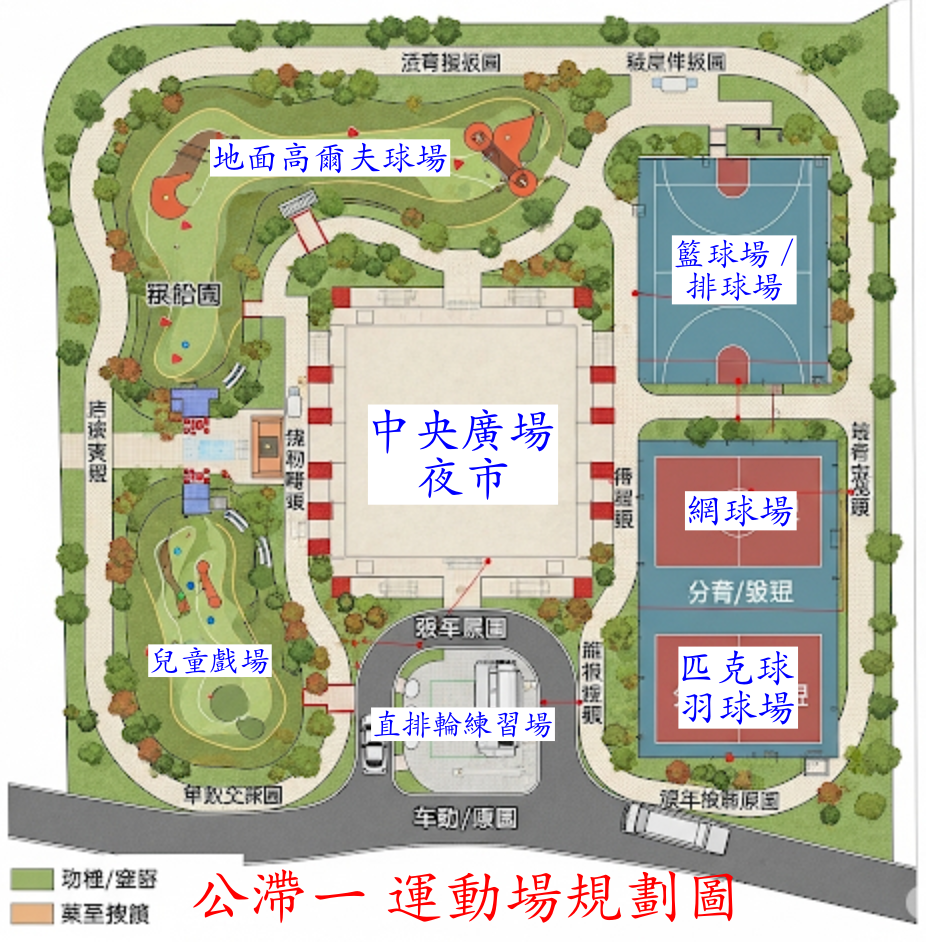
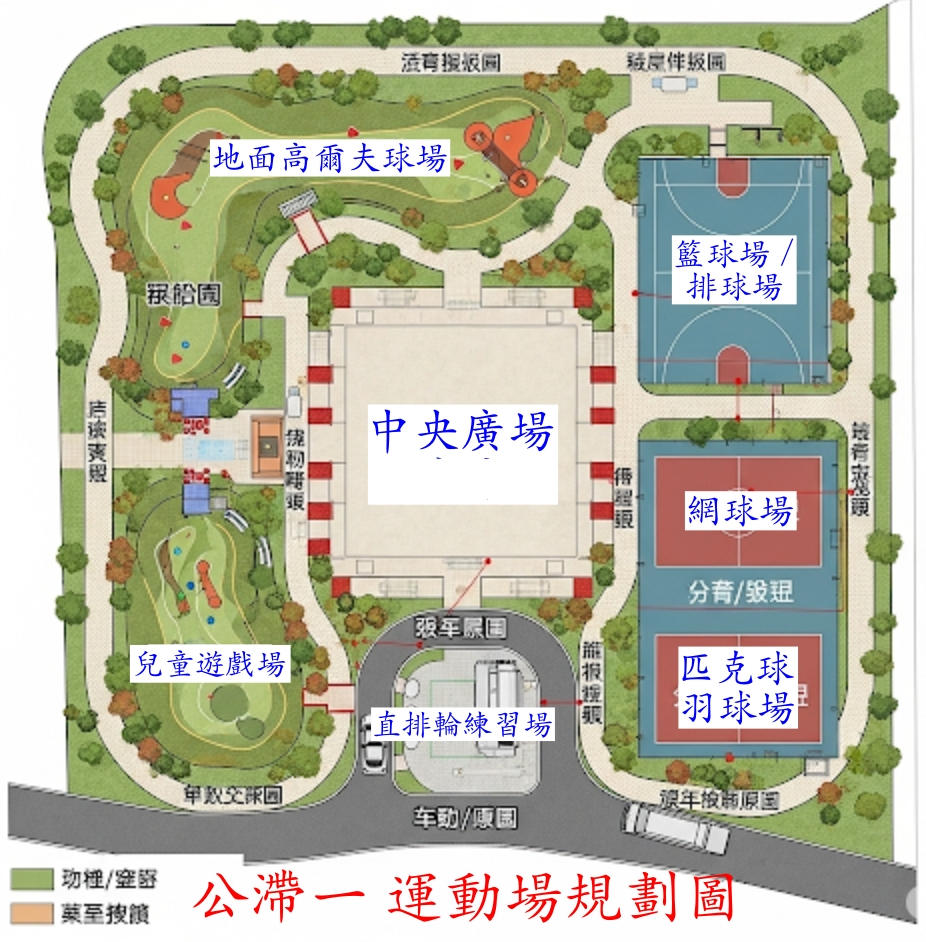
s3091

diff --git a/content/resident/r037.md b/content/resident/r037.md
@@ -38,6 +38,38 @@ toc: true
 
 ![r037-01.jpeg](/images/resident/r037-01.jpeg)
 
+英文告示內容:
+
+**桃園市公園管理自治條例**
+
+根據桃園市市政管理系統條例第十八條，以下行為是被禁止的：
+
+1.  未經授權在公園內的設施或植物上彩繪、張貼、懸掛橫幅或貼紙。
+2.  破壞公園設施、未經授權挖掘土壤、石頭或草皮、在非指定區域傾倒廢棄物或破壞植被等。
+3.  駕車或非法停車。
+4.  攜帶寵物或其他動物而未採取適當的保護措施並清理其排泄物。
+5.  騎自行車、溜冰、滑板、滑冰、打高爾夫球、放風箏，以及從事其他由主管機關宣布禁止或限制的娛樂活動。
+6.  亂扔垃圾、菸蒂、在指定垃圾桶外丟棄菸蒂。
+7.  游泳、沐浴、洗滌、捕魚、釣魚、打魚叉、放生、划船、污染水質、傷害植物生命或騷擾、虐待或傷害動物。經主管機關批准的捕魚或划船活動可免於此禁令。
+8.  晾曬衣物或其他物品。
+9.  採摘水果、蔬菜或其他植物，未經許可。
+10. 未經許可設置任何形式的棚架。
+11. 使用遊憩設施的方式不符合規定。
+12. 隨地大小便或有其他不當行為。
+13. 出售、出租娛樂設備；或從事其他營利活動，未經許可。
+14. 設置營火、烹飪、燃放鞭炮、或搭建遮蔽物或帳篷。
+15. 製造過度的噪音或製造擾亂公共安寧的噪音污染。
+16. 主管機關或管理機構宣布禁止或限制的與疾病預防和傳染病控制相關的事項或公園管理。
+17. 飲酒、打架或從事其他違反公共道德的行為。
+18. 賭博或其他有害公共道德的行為。
+19. 攜帶危險物品。
+20. 其他由主管機關宣布禁止或限制的事項。
+
+**桃園市龜山區公所**
+**電話: (03)3203711**
+
+![r037-12.jpeg](/images/resident/r037-12.jpeg)
+
 ### 文德公園的改善重點項目
 
 **公園禁煙, 禁酒, 並請帶走垃圾**
@@ -52,7 +84,7 @@ toc: true
 
 公園內常見自由奔跑的毛小孩， 將公園當作公廁。 無論草地或步道的遺留物都請主人帶回家！
 
-![r037-09.jpeg](/images/resident/r037-09.jpeg)
+![r037-13.jpeg](/images/resident/r037-13.jpeg)
 
 **私人物品不要放在公園**
 

diff --git a/content/resident/r036.md b/content/resident/r036.md
@@ -47,7 +47,7 @@ toc: true
 - 兒童遊戲場
 - 滑梯及攀岩場
 - 直排輪練習場 / 兒童腳踏車練習場
-- 上面球場都能當 太極拳及廣場舞 活動使用
+- 中央廣場作為 太極拳及廣場舞 等活動使用
 
 **設計構想說明：**
 
@@ -55,16 +55,16 @@ toc: true
 
 - **動線規劃：**
   - **環園步道 (散步/慢跑道):** 一條環繞整個公園的步道，讓散步和慢跑的民眾有獨立且完整的路線，不會與球場活動或車道衝突。
-  - **中央車道：** 一條貫穿場地的主要車道，平時可供管理/ 公園維護車輛使用。到了假日或夜間，這條車道就成為行動餐車進入夜市區域的道路，讓居民可以在中央廣場逛市集。
+  - **中央車道：** 一條貫穿場地的主要車道，平時可供管理/ 公園維護車輛使用。
 - **多功能球場區：**
   - **集中配置：** 將所有球場（籃球/排球、網球、匹克球/羽毛球）集中在一個大的硬鋪面區域。這樣做的好處是，當沒有球賽時，整個區域可以合併成為一個大型的廣場。
   - **彈性使用：** 這個大型廣場非常適合舉辦太極拳、廣場舞等活動，也能容納夜市的桌椅和人潮。地面上可以畫上不同球場的標線，用顏色區分，達到場地共用的目的。
 - **草地區域**
   - **地面高爾夫球場：**配置在公園的一側，擁有較自然的草地景觀，與硬鋪面的球場區有所區隔，提供較為靜態的休閒活動。
   - **兒童遊戲場**: 讓兒童能有在草地上 奔跑, 遊戲的草地區。
-- **夜市與活動規劃：**
-  - **餐車動線：** 餐車可由規劃的車道入口進入，在中央廣場道依序停放。
-  - **人潮空間：** 球場區的大片空地可作為夜市的用餐區或額外攤位區，人車動線分離，確保安全。球場四周可設置公園椅。
+- **中央廣場活動規劃：**
+  - **活動類別：** 中央廣場提供團體活動如太極拳, 廣場舞等活動。
+  - **人潮空間：** 球場區的大片空地可以提供大型活動在此舉辦如二手物品交換，人車動線分離，確保安全。球場四周可設置公園椅。
 
 ![r036-09.jpg](/images/resident/r036-09.jpg)
 

diff --git a/content/councilor/service/s4091.md b/content/councilor/service/s4091.md
@@ -1,0 +1,30 @@
+---
+title: 文青郵局~預計2025年底完工開始營運
+description:
+image: /images/service/4090-1.jpeg
+sequence: 4091
+category1: A. 健全都市發展
+category2: A.1 加速宜居城市建設
+link: https://www.facebook.com/share/p/15xnSEDX8R/
+author: 陳雅倫
+
+head:
+  meta:
+    - name: "keywords"
+      content: ""
+    - name: "robots"
+      content: ""
+    - name: "author"
+      content: "陳雅倫"
+    - name: "copyright"
+      content: "© 2024 A7新林口-社區網站"
+    - name: "og:title"
+      content: "地方行政"
+publishedAt: 2025-07-30
+---
+
+## 文青郵局~預計 2025 年底完工開始營運
+
+![s4091-1.jpeg](/images/service/s4091-1.jpeg)
+![s4091-2.jpeg](/images/service/s4091-2.jpeg)
+![s4091-3.jpeg](/images/service/s4091-3.jpeg)
